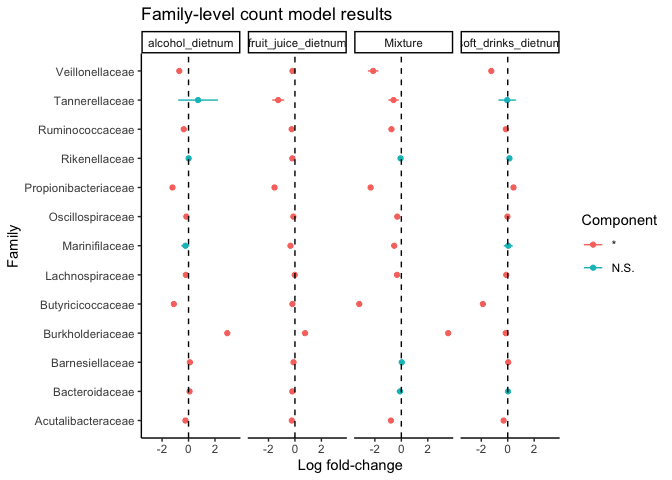
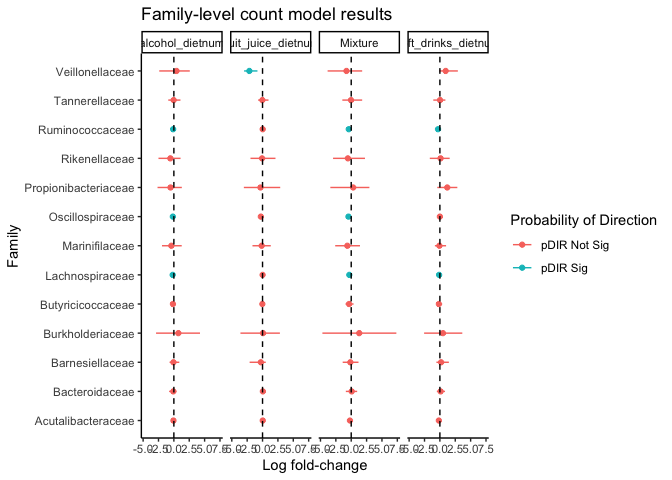
Update readme with new p-value information

diff --git a/README.md b/README.md
@@ -26,8 +26,14 @@ exposures and gut microbiome outcomes.
 
 ## Installation
 
-You can install the development version of BaHZING from
-[GitHub](https://github.com/) with:
+You can install `BaHZING` from [CRAN](https://cran.r-project.org/) with:
+
+``` r
+# install.packages("BaHZING")
+```
+
+Alternatively, you can install the development version of `BaHZING` from
+[GitHub](https://github.com/):
 
 ``` r
 # install.packages("pak")
@@ -105,7 +111,7 @@ bahzing_resout <- BaHZING_Model(formatted_data,
                          n.chains = 1,
                          n.adapt = 60,
                          n.iter.burnin = 2,
-                         n.iter.sample = 2)
+                         n.iter.sample = 50)
 #> #### Checking input data ####
 #> Exposure and Covariate Data:
 #> - Total sample size: 105
@@ -134,22 +140,27 @@ bahzing_resout <- BaHZING_Model(formatted_data,
 ``` r
 # Summarize the results 
 ## Lets examine the Count model coefficients
-count_estimates <- bahzing_resout[bahzing_resout$Component == "Count model coefficients", ]
+count_estimates <- bahzing_resout[bahzing_resout$component == "Count model coefficients", ]
 
 # Lets look at only the family level results
-family_res_out <- count_estimates[count_estimates$Domain == "Family",]
+family_res_out <- count_estimates[count_estimates$domain == "Family",]
+
+# Having a probabilty of direction > 0.975 is equivalent to examining 
+# whether the 95% BCI is overlapping with 0:
+family_res_out$p_Dir_sig <-  ifelse(family_res_out$pdir > 0.975, 
+                                    "pDIR Sig", "pDIR Not Sig")
 
 # Plot the genus results
-ggplot(family_res_out, aes(x = estimate, y = Taxa_name, color = sig)) +
+ggplot(family_res_out, aes(x = estimate, y = taxa_name, color = p_Dir_sig)) +
   geom_point() +
-  geom_errorbar(aes(xmin = estimate_lcl, xmax = estimate_ucl), width = 0) +
+  geom_errorbar(aes(xmin = bci_lcl, xmax = bci_ucl), width = 0) +
   geom_vline(xintercept = 0, linetype = 2) +
-  facet_grid(~Exposure) +
+  facet_grid(~exposure) +
   theme_classic() + 
   labs(title = "Family-level count model results",
        x = "Log fold-change",
        y = "Family",
-       color = "Component")
+       color = "Probability of Direction")
 ```
 
 <img src="man/figures/README-unnamed-chunk-1-1.png" width="100%" />
